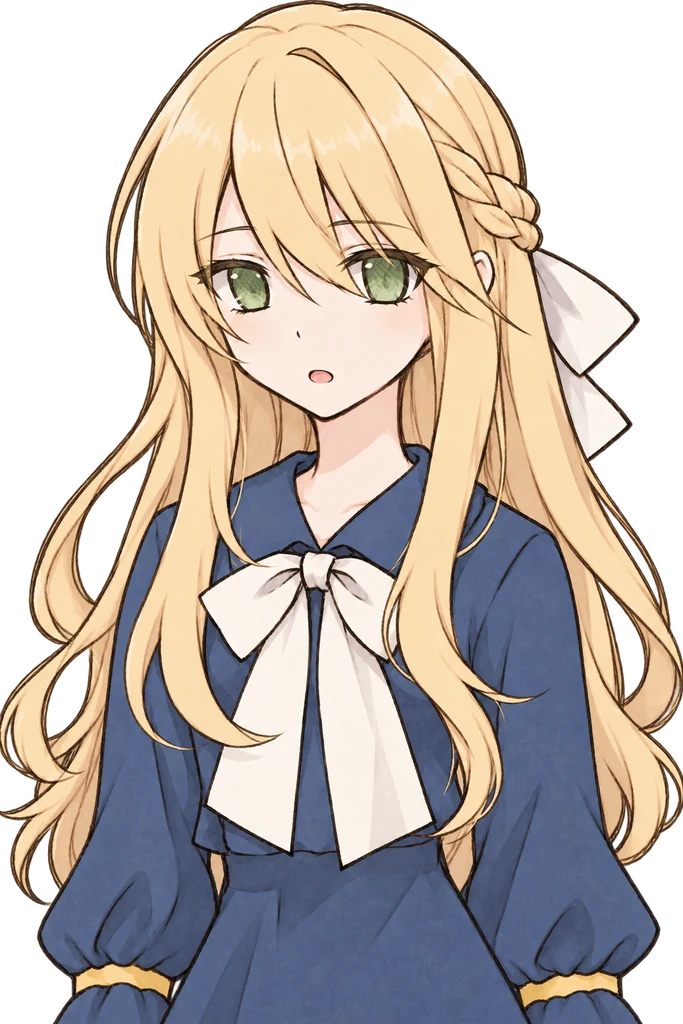
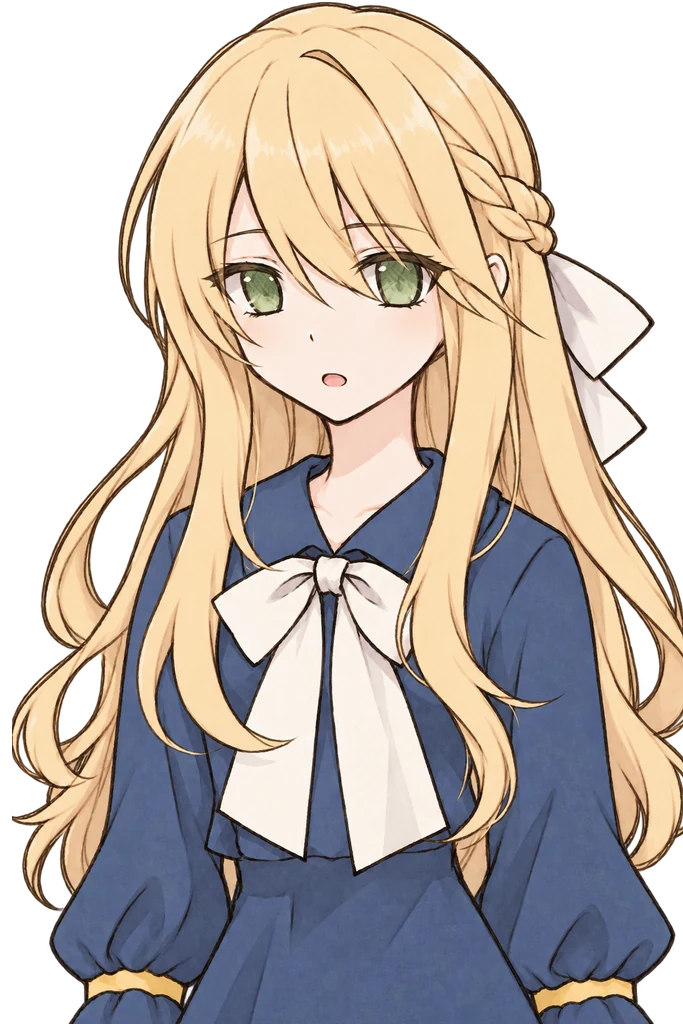
表情差分の立ち絵を、ふだんの絵にぴったり重なる位置・大きさに合わせ直す（マリのずれを修正）

diff --git a/js/playlist.js b/js/playlist.js
@@ -119,7 +119,9 @@ const BOY_PORTRAIT=()=> 'assets/character/物憂げな琥珀眼の少年.webp';
    右向きに描かれた絵は GT.portraitMirror に入れておくと、左右反転して左向きにする。
    表情：セリフに f:'smile'（笑顔）/ f:'surprise'（驚き）/ f:'scared'（怯え）/ f:'granny'（おばあさんに化けた狼）と書くと、その表情の絵になる */
 const P='assets/character/';
-GT.portraitMirror = [ P+'水彩タッチの赤ずきん少女.webp', P+'赤ずきんの驚き顔バスケット少女.webp' ];   // どちらも少し右向きの絵
+GT.portraitMirror = [ P+'水彩タッチの赤ずきん少女.webp' ];   // 少し右向きの絵
+/* 表情の差分（笑顔・驚き・怯え・口を開いたマリ・化けた狼）の webp は、元の PNG から作るときに
+   ふだんの絵にぴったり重なる位置・大きさ（赤ずきんは反転したあとの姿）に合わせてある。表情を変えても、人物がずれない */
 GT.portraits = {
   boy:   BOY_PORTRAIT,                                           // 少年のセリフ（c:'boy'）
   // 狼：左向き『狡猾な人狼の立ち姿』。おばあさんに化けているセリフ（f:'granny'）は『おばあちゃん狼の不敵な微笑み』
